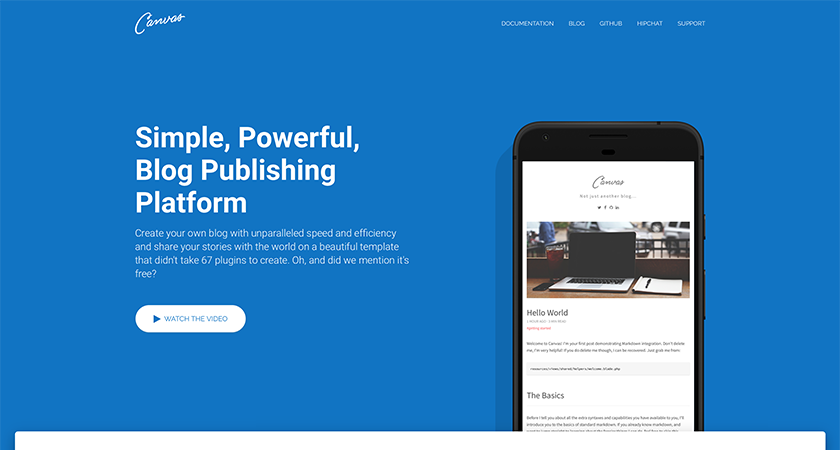
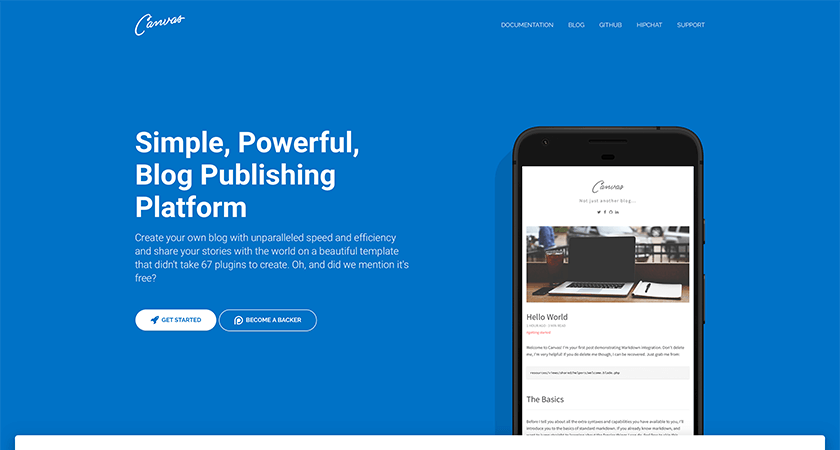
:mount_fuji: Readme and preview image updates

diff --git a/public/assets/css/nppy.css b/public/assets/css/nppy.css
@@ -258,6 +258,9 @@ Hero Section
 }
 
 @media screen and (max-width: 991px) {
+    #header-image-container {
+        text-align: center !important;
+    }
 	.header img #header-image {
 		display: block;
 		margin: 20px auto -50px;

diff --git a/resources/views/site/partials/1-header.blade.php b/resources/views/site/partials/1-header.blade.php
@@ -20,7 +20,7 @@
                     <img src="{{ asset('assets/img/patreon.png') }}" style="width: 17px">&nbsp;&nbsp;Become a backer
                 </a>
             </div>
-            <div class="col-md-6 text-center">
+            <div class="col-md-6 text-right" id="header-image-container">
                 <img class="wow fadeInUp" id="header-image" data-wow-delay=".3s" src="{{ asset('assets/img/header/blog-home.png') }}" alt="Hello World Blog Post" style="max-width: 420px;">
             </div>
         </div>
